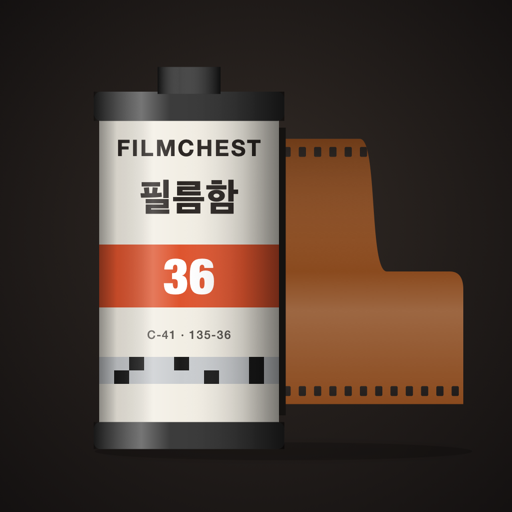
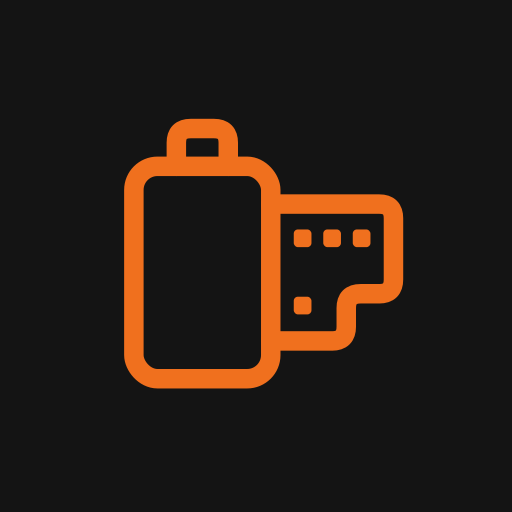
새 앱 아이콘(검정 배경 · 오렌지 라인 필름통): 아이폰·웹·갤럭시 적용, 생성 스크립트와 원본 SVG

diff --git a/galaxy/src/apkBuild.ts b/galaxy/src/apkBuild.ts
@@ -1,2 +1,2 @@
 // 자동 생성: scripts/build-android.sh가 APK를 만들 때 시각을 적는다. 여기서 고치지 말 것.
-export const APK_BUILT = 1793583121
+export const APK_BUILT = 1793585858

diff --git a/scripts/make-app-icons.py b/scripts/make-app-icons.py
@@ -1,0 +1,77 @@
+"""필름함 앱 아이콘 생성기 (라운드 · 검정 배경 · 오렌지 라인).
+
+docs/icon/ 의 원본 SVG를 만들고, 아이폰·웹·갤럭시(Expo)·안드로이드(TWA) 아이콘 PNG/WebP를 다시 뽑습니다.
+필요: pip install cairosvg pillow
+실행: python3 scripts/make-app-icons.py
+"""
+import io, os
+import cairosvg
+from PIL import Image, ImageDraw
+
+ROOT = os.path.dirname(os.path.dirname(os.path.abspath(__file__)))
+BG, INK = "#141414", "#F0701E"
+
+def glyph(ink, scale):
+    holes = "".join(
+        f'<rect x="{x}" y="{y}" width="30" height="30" rx="7" fill="{ink}"/>'
+        for x, y in [(563, 463), (613, 463), (663, 463), (563, 577)]
+    )
+    return f'''<g transform="translate(512,512) scale({scale}) translate(-499,-508)">
+  <g fill="none" stroke="{ink}" stroke-width="33" stroke-linejoin="round" stroke-linecap="round">
+    <rect x="292" y="356" width="232" height="360" rx="40"/>
+    <path d="M364 356V316Q364 292 388 292H428Q452 292 452 316V356"/>
+    <path d="M524 420H708Q732 420 732 444V548Q732 572 708 572H676Q652 572 652 596V628Q652 652 628 652H524"/>
+  </g>{holes}</g>'''
+
+def svg(body, bg=None):
+    b = f'<rect width="1024" height="1024" fill="{bg}"/>' if bg else ""
+    return f'<svg xmlns="http://www.w3.org/2000/svg" viewBox="0 0 1024 1024">{b}{body}</svg>'
+
+FULL = svg(glyph(INK, 1.18), BG)                 # 정사각 꽉 찬 아이콘 (아이폰·웹·스토어)
+FOREGROUND = svg(glyph(INK, 0.92))               # 안드로이드 적응형 전경 (안전 영역 66/108 안쪽)
+MONO = svg(glyph("#FFFFFF", 0.92))               # 안드로이드 13+ 테마 아이콘
+
+def render(src, size):
+    png = cairosvg.svg2png(bytestring=src.encode(), output_width=size, output_height=size)
+    return Image.open(io.BytesIO(png)).convert("RGBA")
+
+def save(img, rel, mode=None):
+    p = os.path.join(ROOT, rel)
+    os.makedirs(os.path.dirname(p), exist_ok=True)
+    if mode: img = img.convert(mode)
+    img.save(p, **({"lossless": True} if p.endswith(".webp") else {}))
+    print("  ", rel, img.size)
+
+def circle(img):
+    m = Image.new("L", img.size, 0)
+    ImageDraw.Draw(m).ellipse((0, 0, img.size[0] - 1, img.size[1] - 1), fill=255)
+    out = Image.new("RGBA", img.size, (0, 0, 0, 0)); out.paste(img, mask=m); return out
+
+for name, s in [("filmchest-icon.svg", FULL), ("filmchest-icon-foreground.svg", FOREGROUND), ("filmchest-icon-monochrome.svg", MONO)]:
+    open(os.path.join(ROOT, "docs/icon", name), "w").write(s); print("  docs/icon/" + name)
+
+# 아이폰 (불투명 RGB 필수)
+save(render(FULL, 1024), "App/FilmScan/Assets.xcassets/AppIcon.appiconset/icon-1024.png", "RGB")
+# 웹
+save(render(FULL, 180), "web/public/apple-touch-icon.png", "RGB")
+save(render(FULL, 192), "web/public/icon-192.png", "RGB")
+save(render(FULL, 512), "web/public/icon-512.png", "RGB")
+# 갤럭시 (Expo 원본)
+save(render(FULL, 1024), "galaxy/assets/icon.png", "RGB")
+save(render(FOREGROUND, 512), "galaxy/assets/android-icon-foreground.png")
+save(Image.new("RGBA", (512, 512), BG), "galaxy/assets/android-icon-background.png")
+save(render(MONO, 432), "galaxy/assets/android-icon-monochrome.png")
+save(render(FULL, 48), "galaxy/assets/favicon.png")
+# 안드로이드 TWA
+save(render(FULL, 512), "android/store_icon.png")
+dens = {"mdpi": 1, "hdpi": 1.5, "xhdpi": 2, "xxhdpi": 3, "xxxhdpi": 4}
+for d, k in dens.items():
+    save(render(FULL, int(48 * k)), f"android/app/src/main/res/mipmap-{d}/ic_launcher.png")
+# 갤럭시 네이티브 폴더(prebuild 결과물, git 제외)가 있으면 같이 갱신
+if os.path.isdir(os.path.join(ROOT, "galaxy/android/app/src/main/res")):
+    for d, k in dens.items():
+        base = f"galaxy/android/app/src/main/res/mipmap-{d}/"
+        full = render(FULL, int(48 * k))
+        save(full, base + "ic_launcher.webp")
+        save(circle(full), base + "ic_launcher_round.webp")
+        save(render(FOREGROUND, int(108 * k)), base + "ic_launcher_foreground.webp")
